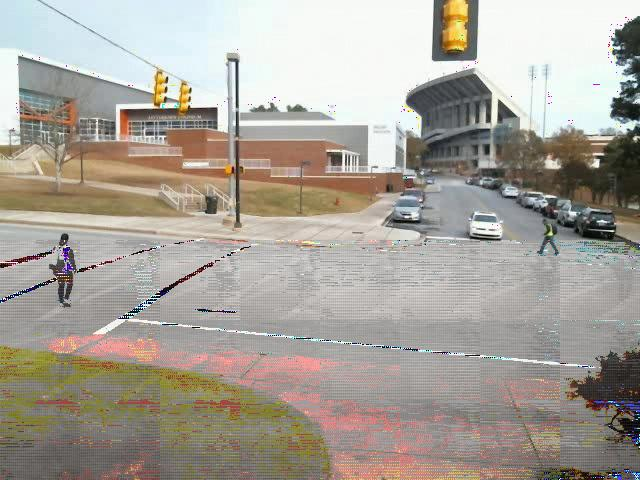
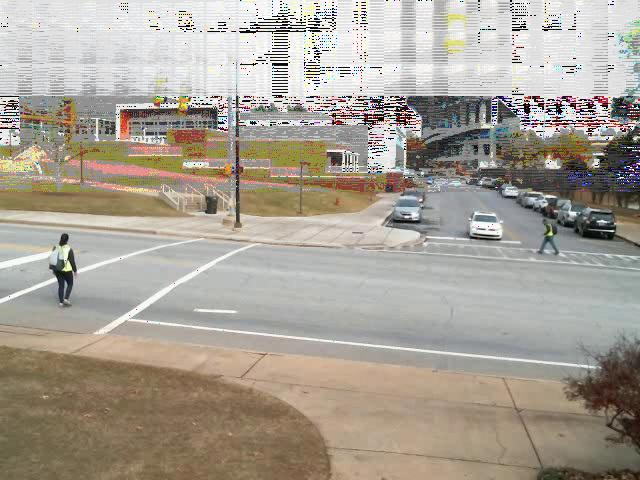
Able to compression two regions

diff --git a/horizontal_compress.py b/horizontal_compress.py
@@ -58,20 +58,26 @@ image = "imgs/image"+str(sys.argv[1])+".jpg"
 im = Image.open(image,'r')
 pix_vals = im.load()
 width,height = im.size
-height_2 = height // 2;
+height_2 = height // 5
+height_3 = height_2 * 2
 
 # Compress the top of the image
 dArray_top = createFloatArray(0, height_2, 0, width, pix_vals)
-dc1 = performCompression(50, dArray_top, 0, height_2, 0, width)
+dc1 = performCompression(8, dArray_top, 0, height_2, 0, width)
+
+# Compress the second layer
+dArray_middle = createFloatArray(height_2, height_3 ,0, width, pix_vals)
+dc2 = performCompression(20, dArray_middle, height_2, height_3, 0, width)
 
 # Compress the bottom of the image
-dArray_bottom = createFloatArray(height_2, height, 0, width, pix_vals)
-dc2 = performCompression(20, dArray_bottom, height_2, height, 0, width)
+dArray_bottom = createFloatArray(height_3, height, 0, width, pix_vals)
+dc3 = performCompression(50, dArray_bottom, height_3, height, 0, width)
 
 
 ## Write out the image
 result = pressio.io_data_to_numpy(dc1)
-result_2 = pressio.io_data_to_numpy(dc2)
-final = np.vstack((result, result_2))
+result_mid = pressio.io_data_to_numpy(dc2)
+result_2 = pressio.io_data_to_numpy(dc3)
+final = np.vstack((result, result_mid, result_2))
 newImage = Image.fromarray((final).astype(np.uint8),'RGB')
 newImage.save("output" + "0" + ".jpeg","JPEG")
